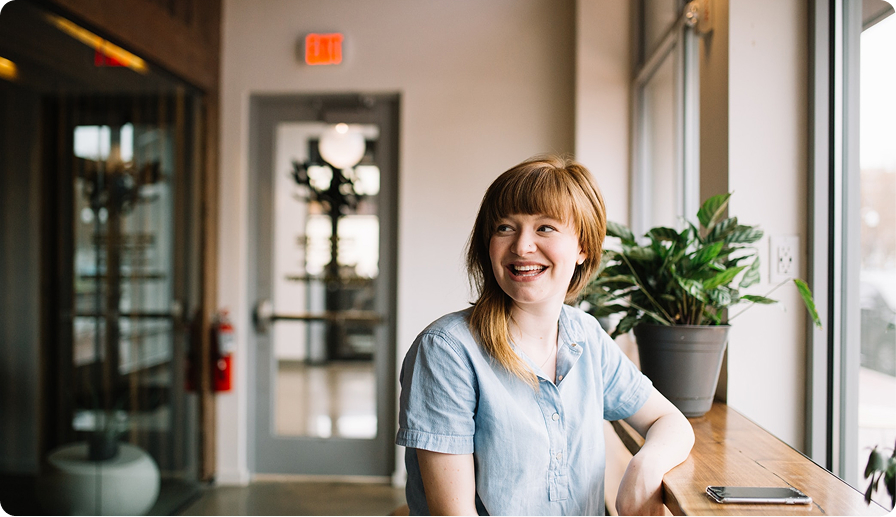
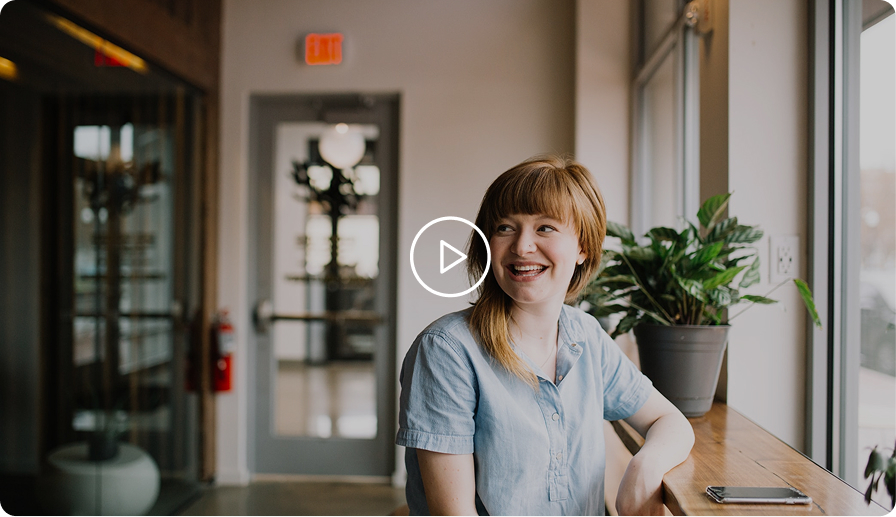
section about

diff --git a/css/styles.css b/css/styles.css
@@ -150,6 +150,7 @@ body{
 /* Steps */
 
 .steps {
+    margin-bottom: 252px;
 }
 .steps__top {
     display: flex;
@@ -163,20 +164,28 @@ body{
 }
 
 .top__title p{
+
+    color: #424242;
+}
+
+.description{
     font-weight: 600;
     font-size: 24px;
     line-height: 1.57em;
-    color: #424242;
-    
 }
 
 .top__title h2{
+
+    color: #01996d;
+}
+
+.text-h2{
     font-family: 'Georgia', serif;
     font-weight: 700;
     font-size: 50px;
     line-height: 1.57em;
-    color: #01996d;
 }
+
 .text-p {
     font-size: 20px;
     line-height: 1.5em;
@@ -263,4 +272,53 @@ body{
 .bottom-steps-card:nth-child(3) img{
     border-radius: 12px;
     padding-left: 4px;
+}
+
+/* About */
+
+.about {
+    background-color: #245852;
+}
+
+.about__inner {
+    display: flex;
+    color: #fff;
+    margin: 0 206px;
+    padding: 229px 0 175px;
+    gap: 31px;
+    justify-content: center;
+}
+
+.about__left {
+    margin-top: 81px;
+    max-width: 580px;
+}
+
+.about__left p{
+    padding-top: 33px;
+}
+
+.description {
+    font-size: 25px;
+}
+
+.about__left .btn{
+    margin-top: 57px;
+}
+.video {
+    border-radius: 17px;
+}
+
+@media screen and (max-width: 1900px){
+    .about__inner {
+        flex-direction: column;
+        align-items: center;
+        text-align: center;
+        padding: 100px 0;
+        gap: 60px;
+    }
+}
+
+@media screen and (max-width: 1900px){
+
 }

diff --git a/index.html b/index.html
@@ -40,8 +40,8 @@
         <div class="container">
             <div class="steps__top">
                 <div class="top__title">
-                    <p>How it works</p>
-                    <h2>Understand & Release the stress in 3 steps</h2>
+                    <p class="description">How it works</p>
+                    <h2 class="text-h2">Understand & Release the stress in 3 steps</h2>
                 </div>
                 <p class="text-p">Alivio offers as many journals it takes, tackling different areas such as anxiety, overwhelmedness, sadness, or anger, and a variety of personal causes, to help you become aware of your emotions, and guide you in how to manage stress.</p>
             </div>
@@ -65,6 +65,17 @@
                     <img src="img/card_three.png" alt="card_one">
                 </div>
             </div>
+        </div>
+    </section>
+
+    <section class="about">
+        <div class="about__inner">
+            <div class="about__left">
+                <h2 class="text-h2">Let's hear about Kayla's success story</h2>
+                <p class="description">See how well Alivio works in a real customer’s life.</p>
+                <button class="btn">Let’s get started</button>
+            </div>
+            <video class="video" src="" poster="img/video_poster.jpg" controls></video>
         </div>
     </section>
 
